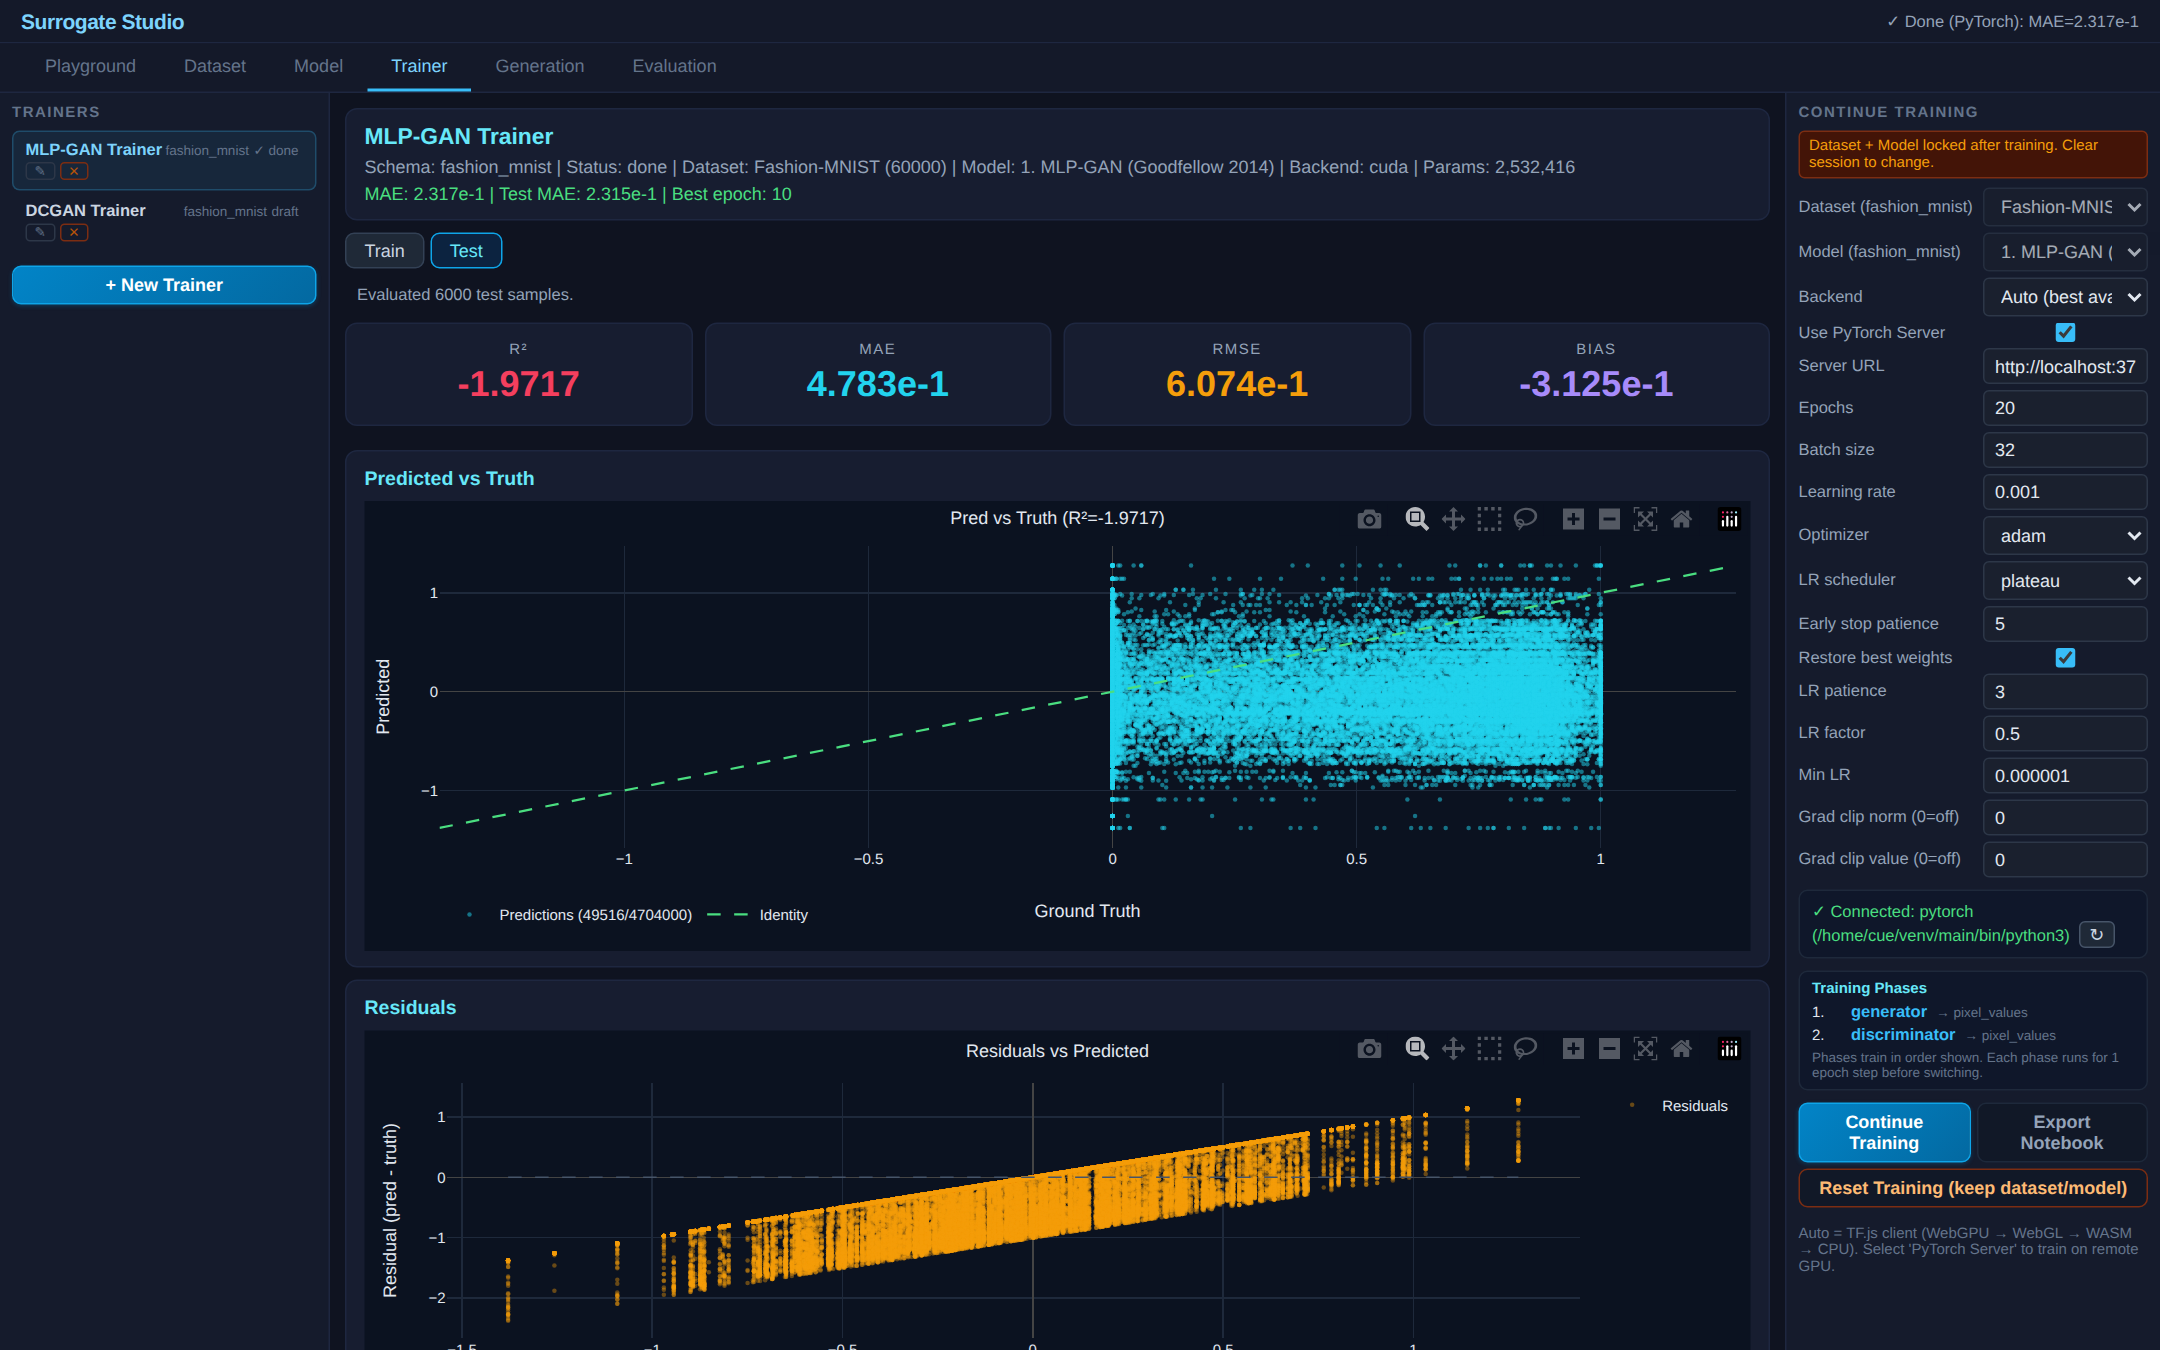
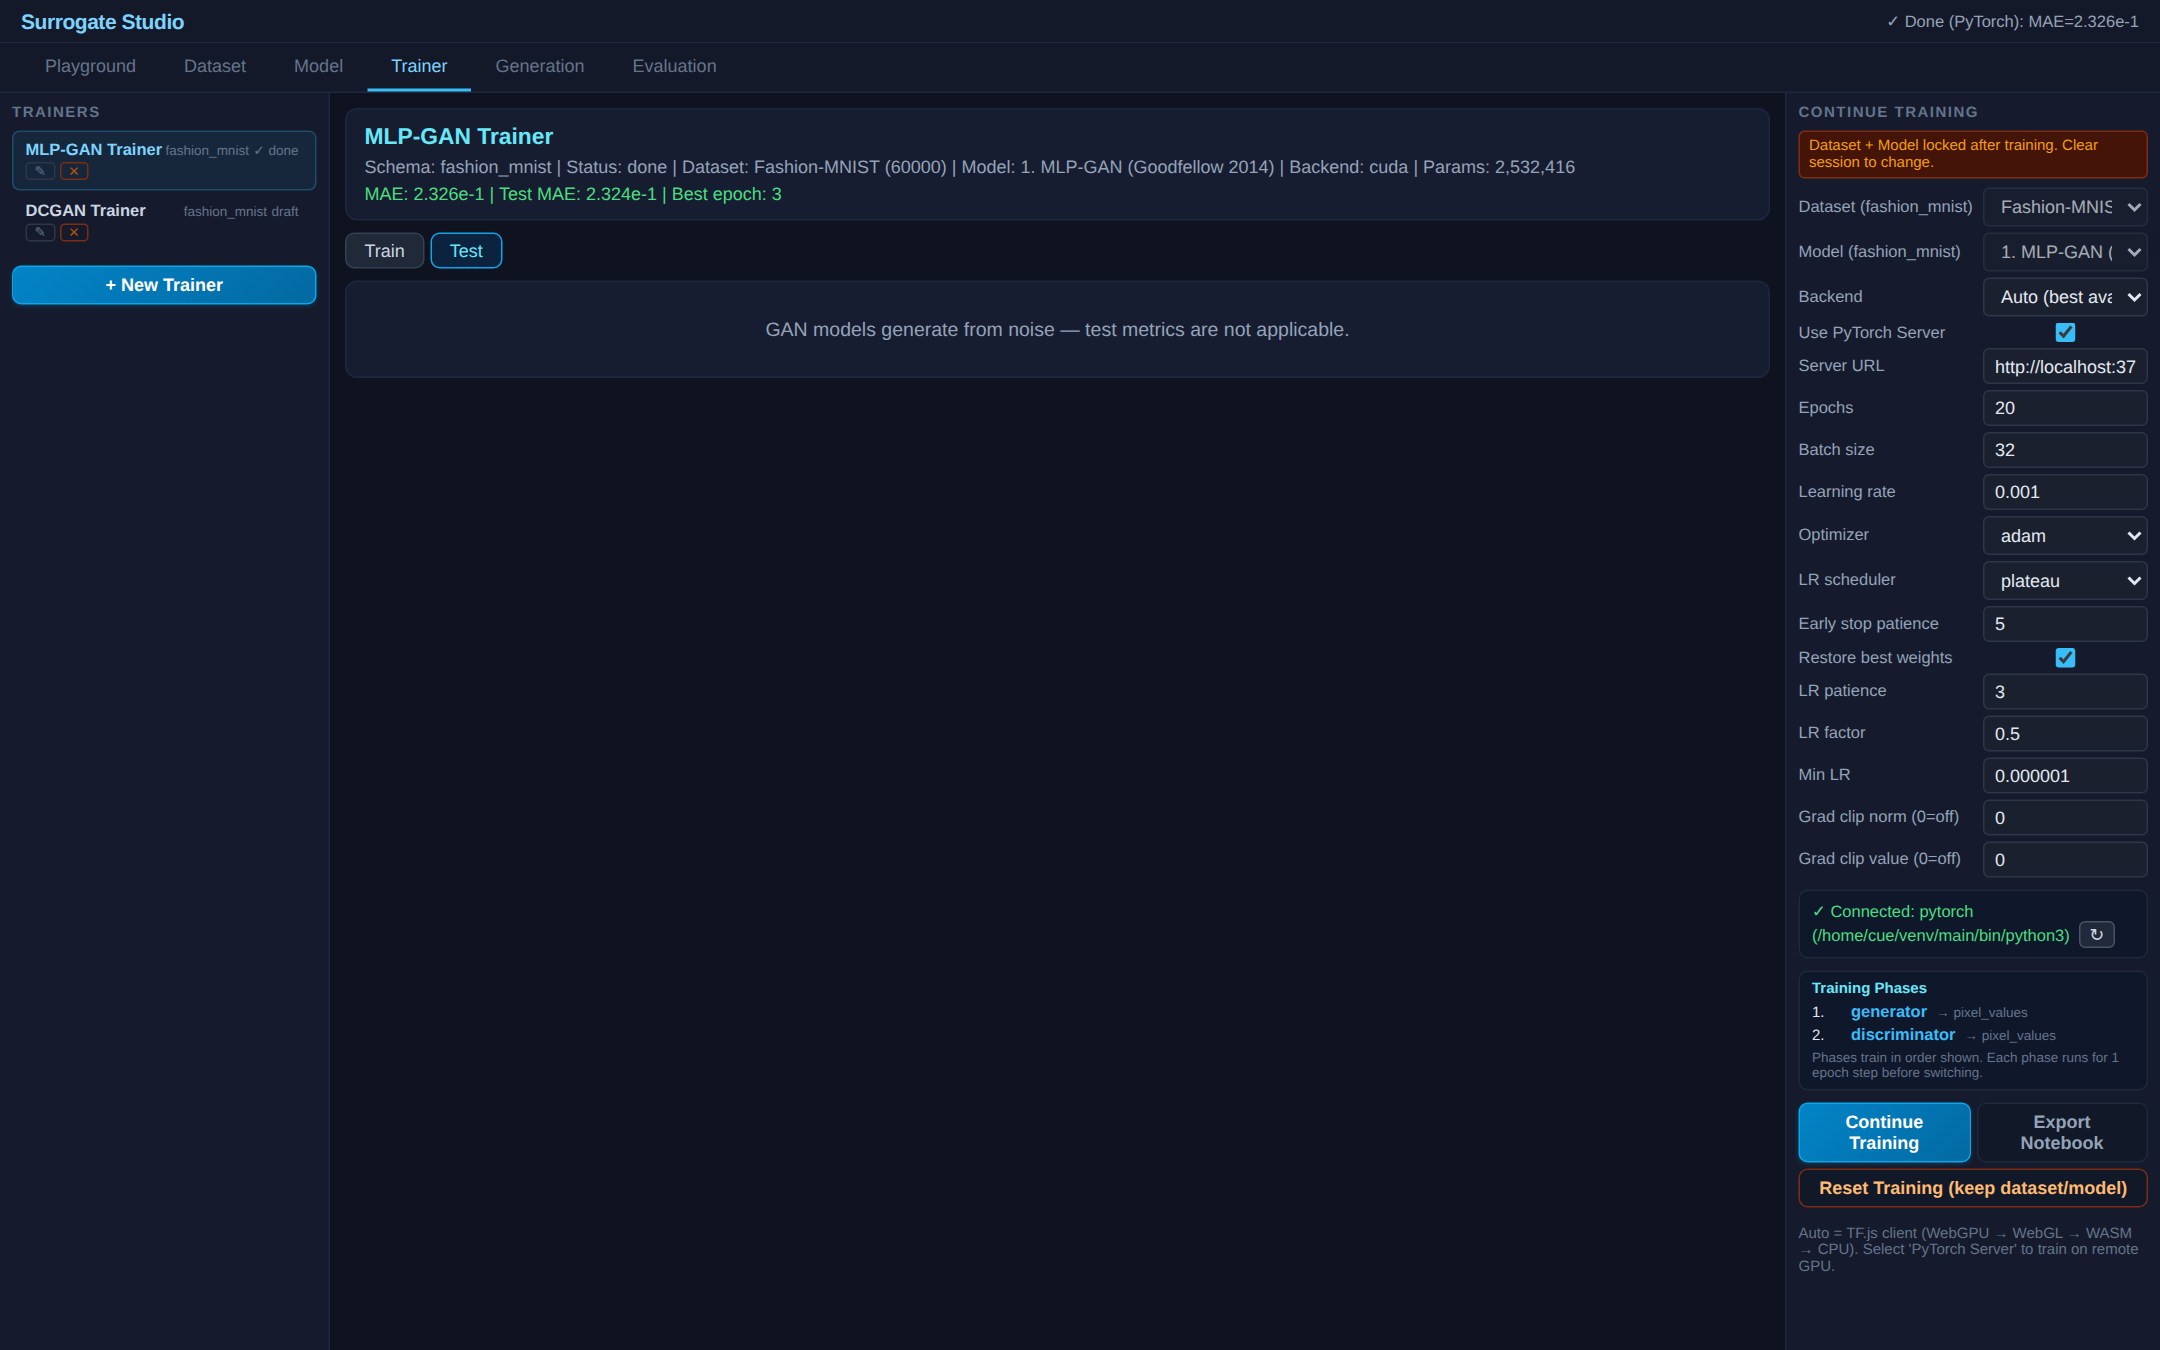
Fix GAN: skip meaningless test, fix multi-input generation, update README
- Trainer test tab: skip test metrics for GAN models (generate from noise,
  no input→output relationship). Shows message to use Generation tab instead.
- Generation engine: handle multi-input models (GAN SampleZ + ImageSource),
  provide dummy zeros for non-z inputs during random generation.
- Generation tab: detect SampleZ dim from graph for correct latentDim.
- Update root README: remove deleted demos, add 35+ node types, 9 papers cited.
- Recapture GAN screenshots: clean test tab, working generation with images.

diff --git a/src/generation_engine_core.js b/src/generation_engine_core.js
@@ -93,11 +93,30 @@
       if (!model) throw new Error("generation: model required");
 
       var z = tf.randomNormal([numSamples, latentDim], 0, temperature);
-      var output = model.predict(z);
+      var inputTensors = z;
+      var extraTensors = [];
+      // multi-input models (e.g., GAN with SampleZ + ImageSource): provide all inputs
+      if (model.inputs && model.inputs.length > 1) {
+        var inputs = [];
+        for (var ii = 0; ii < model.inputs.length; ii++) {
+          var inputShape = model.inputs[ii].shape;
+          var inputDim = inputShape[inputShape.length - 1];
+          if (inputDim === latentDim) {
+            inputs.push(z); // this is the z input
+          } else {
+            var dummy = tf.zeros([numSamples, inputDim]); // dummy for non-z inputs
+            inputs.push(dummy);
+            extraTensors.push(dummy);
+          }
+        }
+        inputTensors = inputs;
+      }
+      var output = model.predict(inputTensors);
       var samples = (Array.isArray(output) ? output[0] : output).arraySync();
       var latents = z.arraySync();
 
       z.dispose();
+      extraTensors.forEach(function (t) { t.dispose(); });
       if (Array.isArray(output)) output.forEach(function (t) { t.dispose(); }); else output.dispose();
 
       resolve({

diff --git a/src/tabs/generation_tab.js b/src/tabs/generation_tab.js
@@ -485,10 +485,23 @@
         // load weights
         _loadWeights(tf, built.model, trainer.modelArtifacts);
 
-        // decoder extraction for VAE
+        // determine latent dim and model for generation
         var genModel = built.model;
-        var genLatentDim = featureSize;
         var family = g.family || modelBuilder.inferModelFamily(modelRec.graph);
+        // for GAN: latentDim = SampleZ dim from graph. For VAE: from reparam. Otherwise: featureSize.
+        var genLatentDim = featureSize;
+        if (family === "gan") {
+          // read SampleZ dim from graph
+          var gData = modelBuilder.extractGraphData ? modelBuilder.extractGraphData(modelRec.graph) : {};
+          Object.keys(gData).forEach(function (nid) {
+            var nd = gData[nid];
+            if (nd && (nd.name === "sample_z_layer" || nd.name === "sample_z_block")) {
+              genLatentDim = Number((nd.data && nd.data.dim) || 128);
+            }
+          });
+        } else if (latentDim > 0) {
+          genLatentDim = latentDim;
+        }
         if (family === "vae" && method !== "inverse" && method !== "reconstruct") {
           try {
             var decoder = modelBuilder.extractDecoder(tf, built.model, latentDim);

diff --git a/src/tabs/trainer_tab.js b/src/tabs/trainer_tab.js
@@ -323,6 +323,19 @@
         return;
       }
 
+      // skip test for models that don't have meaningful test metrics (e.g., GAN generator)
+      var modelRec0 = store ? store.getModel(t.modelId) : null;
+      if (modelRec0 && modelRec0.graph && modelBuilder) {
+        var family0 = modelBuilder.inferModelFamily(modelRec0.graph);
+        if (family0 === "gan") {
+          mainEl.appendChild(el("div", { className: "osc-card", style: "margin-top:8px;text-align:center;padding:24px;" },
+            el("div", { style: "font-size:13px;color:#94a3b8;" }, "GAN models generate from noise \u2014 test metrics are not applicable."),
+            el("div", { style: "font-size:12px;color:#67e8f9;margin-top:8px;" }, "Use the Generation tab to see generated images.")
+          ));
+          return;
+        }
+      }
+
       var statusEl = el("div", { style: "font-size:11px;color:#94a3b8;padding:4px 8px;" }, "Running inference on full test set (TF.js)...");
       mainEl.appendChild(statusEl);
 
